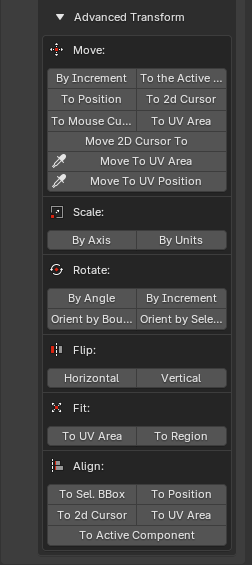
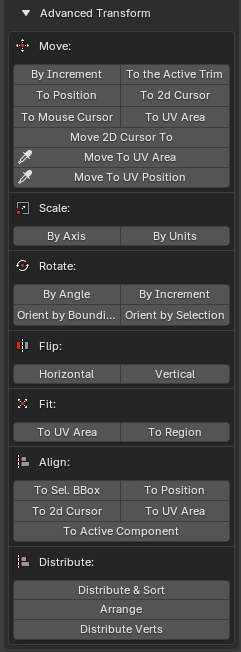
upd transform article

diff --git a/mkdocs/transform.md b/mkdocs/transform.md
@@ -546,7 +546,7 @@ Switch between Islands and Texure-based transforms in 3D View.
 
 #### Distribute And Sort
 
-Distributes and sorts the selected islands
+Distributes and sorts selected islands
 
 !!! Properties
     ![distribute and sort properties](img/screen/transform/distribute_and_sort_properties.png)
@@ -665,9 +665,32 @@ Recommended to use if you want to add shortcuts for transform operations.
 - **Move 2D Cursor To** - Move 2D Cursor to selection
 - **Move To UV Area** - Move the center of the selected islands to the UV Area using the mouse position
 - **Move To UV Position** - Move the center of the selected islands to the UV coordinates defined by the mouse
+
+#### Move island
+
+Move island to the defined position
+
+!!! Properties
+    ![move island properties](img/screen/transform/move_properties.png)
+
+- **Mode** - Transform Mode
+    - *Islands* - Transform islands
+    - *Selection* - Transform selection
+- **Order** - Processing order
+    - *Overall* - Handle everything as one
+    - *One by One* - Handle one by one
+- **Move** - Transform Mode
+    - *By Increment* - Move the island by a specified amount
+    - *To Position* - Move the island to the specified position
+    - *To 2D Cursor* - Move the island to the 2D Cursor position
+    - *To Active Trim Center* - Move the island to the position of the active trim center
+    - *To Mouse Cursor* - Move the island to the position of the mouse cursor
+- **Position** - Position specified by coordinates to which the movement will be performed
+- **Island Pivot** - The pivot of the transformed unit
+
 ---
 
-### Scale
+### Scale operators
 
  ![](img/icons/transform-scale.png)
 
@@ -676,7 +699,8 @@ Recommended to use if you want to add shortcuts for transform operations.
 
 ---
 
-### Rotate
+### Rotate operators
+
 ![](img/icons/transform-rotate.png)
 
 - **By Angle** - Rotate Islands by Angle
@@ -684,27 +708,117 @@ Recommended to use if you want to add shortcuts for transform operations.
 - **Orient by Bounding Box** - Orient Islands to Bounding Box
 - **Orient by Selection** - Orient Islands by Selection
 
+#### Rotate Island
+
+Rotate selected islands or selection
+
+!!! Properties
+    ![rotate island properties](img/screen/transform/rotate_island_properties.png)
+
+- **Mode** - Transform Mode
+    - *Islands* - Transform islands
+    - *Selection* - Transform selection
+- **Order** - Processing order
+    - *Overall* - Handle everything as one
+    - *One by One* - Handle one by one
+- **Mode** - Rotation mode
+    - *By Angle* - Turn to the specified angle
+    - *By Direction* - Rotate by a specified angle in a specified direction
+- **Direction** - Direction of rotation
+- **Rotation Increment** - Island rotation angle
+- **Island Pivot** - The pivot of the transformed unit
+
+#### Orient Island
+
+Orient Island
+
+!!! Properties
+    ![orient island properties](img/screen/transform/orient_island_properties.png)
+
+- **Order** - Processing order
+    - *Overall* - Handle everything as one
+    - *One by One* - Handle one by one
+- **Orient by** - Orient Mode
+    - *Bounding Box* - Orient by bounding box
+    - *Selection* - Orient by selection
+- **Direction** - Orientation in the direction of
+    - *Horizontal* - Horizontal orientation
+    - *Vertical* - Vertical orientation
+    - *Auto* - Auto detect orientation
+- **Rotation** - Direction of rotation
+
+
 ---
 
-### Flip
+### Flip operators
 
 ![](img/icons/transform-flip.png)
 
 - **Horizontal** - Flip Islands Horizontally
 - **Vertical** - Flip Islands Vertically
 
+#### Flip Island
+
+Flip selected Islands or Selection
+
+!!! Properties
+    ![flip island properties](img/screen/transform/flip_island_properties.png)
+
+- **Mode** - Transform Mode
+    - *Islands* - Transform islands
+    - *Selection* - Transform selection
+- **Order** - Processing order
+    - *Overall* - Handle everything as one
+    - *One by One* - Handle one by one
+- **Direction** - Direction of flipping
+    - *Horizontal* - Horizontal
+    - *Vertical* - Vertical
+    - *Island Pivot* - By pivot of the island
+- **Island Pivot** - The pivot of the transformed unit
+
 ---
 
-### Fit
+### Fit operators
 
 ![](img/icons/transform-fit.png)
 
 - **To UV Area** - Fit Islands to UV Area
 - **To Region** - Fit Islands to Region
 
+#### Fit Island
+
+Fit island into defined region
+
+!!! Properties
+    ![fit island properties](img/screen/transform/fit_island_properties.png)
+
+- **Mode** - Transform Mode
+    - *Islands*
+    - *Selection*
+    - *Faces*
+- **Order** - Processing order
+    - *Overall* - Handle everything as one
+    - *One by One* - Handle one by one
+- **Fit** - Transform Mode
+    - *To UV Area* - Fit selection to the UV Area bounds
+    - *To Region* - Fit selection to the defined region
+    - *Fill Islands* - Fit islands to the UV Area, but not keep the proportions
+- **Fit Axis** - Active Axis
+    - *U* - U axis
+    - *V* - V axis
+    - *Min* - The minimum length axis is automatically determined
+    - *Max* - The maximum length axis is automatically determined
+    - *Automatic* - Automatically detected axis for full dimensional compliance
+- **Inset** - The amount by which the islands should be reduced relative to the edges of the region
+- **Keep proportion** - Do not change the proportions of the selected island
+- **Match Rotation** - Match the rotation of the island to the rotation of the region (for rectangular regions)
+- **Region** - Region in which the selected island will be fitted
+- **Align To** - The region point to which the island will be adjusted
+
+
 ---
 
-### Align
+### Align operators
 
 ![](img/icons/transform-orient.png)
 
@@ -713,3 +827,39 @@ Recommended to use if you want to add shortcuts for transform operations.
 - **To 2D Cursor** - Align Islands to 2D Cursor
 - **To UV Area** - Align Islands to UV Area
 - **To Active Component** - Align Islands to Active Component
+
+
+#### Align Islands
+
+Align selected islands or selection
+
+!!! Properties
+    ![align island properties](img/screen/transform/align_properties.png)
+
+- **Mode** - Transform Mode
+    - *Islands*
+    - *Selection*
+    - *Vertices*
+- **Order** - Processing order
+    - *Overall* - Handle everything as one
+    - *One by One* - Handle one by one
+- **Align** - Transform Mode
+    - *To Selection Bounding Box* - To the bounding box of the selection
+    - *To Position* - To the defined position
+    - *To 2D Cursor* - To the 2D cursor
+    - *To UV Area Bounding Box* - To the bounding box of the UV Area
+    - *To Active Component* - To the active component (vertex, edge, face)
+- **Position** - Position specified by coordinates to which the alignment will be performed
+- **Align Direction** - The point of the bounding box to which align will be performed
+- **As Direction** - Set the island pivot to be the same as the alignment direction
+- **Island Pivot** - The point of the island which will be aligned
+
+---
+
+### Distribute operators
+
+![](img/icons/transform-distribute.png)
+
+- [**Distribute and Sort**](#distribute-and-sort) - Distributes and sorts selected islands
+- [**Arrange**](#arrange) - Arrange selected islands
+- [**Distribute Vertices**](#distribute) - Distribute vertices along the line
